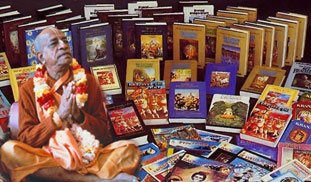
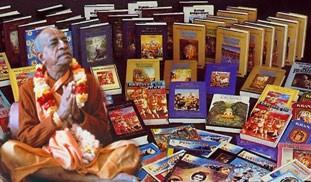
images name changed

diff --git a/src/app/navigation/home/home.component.ts b/src/app/navigation/home/home.component.ts
@@ -18,21 +18,21 @@ export class HomeComponent {
   ];
 
   items = [
-    { routerLink: '/srilaPrabhupada', imgSrc: 'assets/images/aboutPrabhupada.png', altText: 'About Prabhupada' },
-    { routerLink: '/japa', imgSrc: 'assets/images/chantWithPrabhupada.png', altText: 'Chant with Prabhupada' },
-    { routerLink: '/kirtan-lesson/mritanga', imgSrc: 'assets/images/mritangalesson.png', altText: 'Mritanga Lesson' },
-    { routerLink: '/kirtan-lesson', imgSrc: 'assets/images/karathalPrabhupada.png', altText: 'Karathal Prabhupada' },
-    { routerLink: '/festival', imgSrc: 'assets/images/arati.png', altText: 'Arati' },
-    { routerLink: '/audiokirtan', imgSrc: 'assets/images/kirtans.png', altText: 'Kirtans' },
-    { routerLink: '', imgSrc: 'assets/images/forum.png', altText: 'Forum' },
-    { routerLink: '/calendar', imgSrc: 'assets/images/calender.png', altText: 'Calendar' },
-    { routerLink: '', imgSrc: 'assets/images/cooks.png', altText: 'Cooks' },
-    { routerLink: '/books', imgSrc: 'assets/images/books.png', altText: 'Books' },
-    { routerLink: '', imgSrc: 'assets/images/slokas.png', altText: 'Slokas' },
-    { routerLink: '', imgSrc: 'assets/images/diksha.png', altText: 'Diksha' },
-    { routerLink: '', imgSrc: 'assets/images/matrimony.png', altText: 'Matrimony' },
+    { routerLink: '/srilaPrabhupada', imgSrc: 'assets/images/aboutPrabhupad.jpeg', altText: 'About Prabhupada' },
+    { routerLink: '/japa', imgSrc: 'assets/images/chantWithPrabhupad.jpeg', altText: 'Chant with Prabhupada' },
+    { routerLink: '/kirtan-lesson/mritanga', imgSrc: 'assets/images/mritangalesso.jpeg', altText: 'Mritanga Lesson' },
+    { routerLink: '/kirtan-lesson', imgSrc: 'assets/images/karathalPrabhupad.jpeg', altText: 'Karathal Prabhupada' },
+    { routerLink: '/festival', imgSrc: 'assets/images/arat.jpeg', altText: 'Arati' },
+    { routerLink: '/audiokirtan', imgSrc: 'assets/images/kirtan.jpeg', altText: 'Kirtans' },
+    { routerLink: '', imgSrc: 'assets/images/foru.jpeg', altText: 'Forum' },
+    { routerLink: '/calendar', imgSrc: 'assets/images/calende.jpeg', altText: 'Calendar' },
+    { routerLink: '', imgSrc: 'assets/images/cook.jpeg', altText: 'Cooks' },
+    { routerLink: '/books', imgSrc: 'assets/images/book.jpeg', altText: 'Books' },
+    { routerLink: '', imgSrc: 'assets/images/sloka.jpeg', altText: 'Slokas' },
+    { routerLink: '', imgSrc: 'assets/images/diksh.jpeg', altText: 'Diksha' },
+    { routerLink: '', imgSrc: 'assets/images/matrimon.jpeg', altText: 'Matrimony' },
     // { routerLink: '', imgSrc: 'assets/images/things.png', altText: 'Things' },
-    { routerLink: '/images', imgSrc: 'assets/images/photo.png', altText: 'Photo' },
-    { routerLink: '', imgSrc: 'assets/images/donate.png', altText: 'Donate' }
+    { routerLink: '/images', imgSrc: 'assets/images/phot.jpeg', altText: 'Photo' },
+    { routerLink: '', imgSrc: 'assets/images/donat.jpeg', altText: 'Donate' }
   ];
 }

diff --git a/src/app/article/srila-prabhupada/srila-prabhupada.component.html b/src/app/article/srila-prabhupada/srila-prabhupada.component.html
@@ -2,7 +2,7 @@
     <section>
 
         <h1 class="header1">ஸ்ரீல பிரபுபாதர்</h1> <button mat-raised-button class="paramparaBtn" routerLink="/guruparampara"><span>Guru Parampara</span></button>
-        <div><img src="assets/images/walk.jpg" class="prabhupadaimage" alt=""></div>
+        <div><img src="../../assets/images/walk.jpg" class="prabhupadaimage" alt=""></div>
        <p> புலனின்பமே பிரதானம்” என்ற மோகத்தில் மயங்கியோர் மத்தியில் ஆன்மீக விஷயங்களுக்கு புத்துயிரளித்து, மனித வாழ்வின்
         உண்மையான குறிக்கோளான கிருஷ்ண பக்தியைத் தூண்டி, குழப்பங்கள் குடிகொண்ட கலி யுகத்தின் தற்போதைய நிலைக்குத் தகுந்தாற்
         போல கிருஷ்ண பக்தி வாழ்க்கையை நடைமுறைப்படுத்தி, பகவான் ஸ்ரீ கிருஷ்ணரின் இருப்பிடத்திற்கு உயிர்வாழிகளைக் கொண்டு
